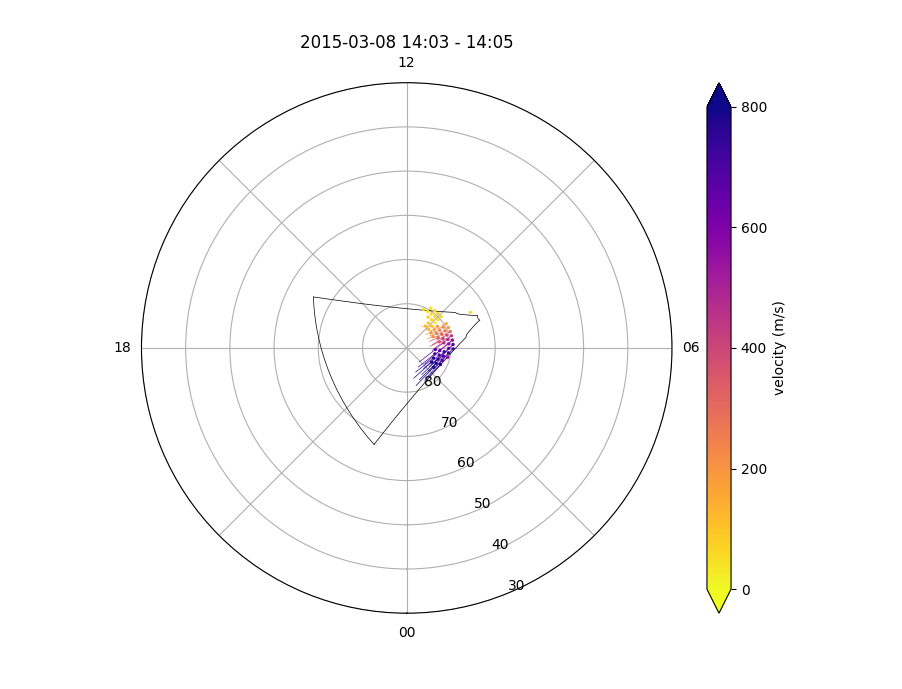
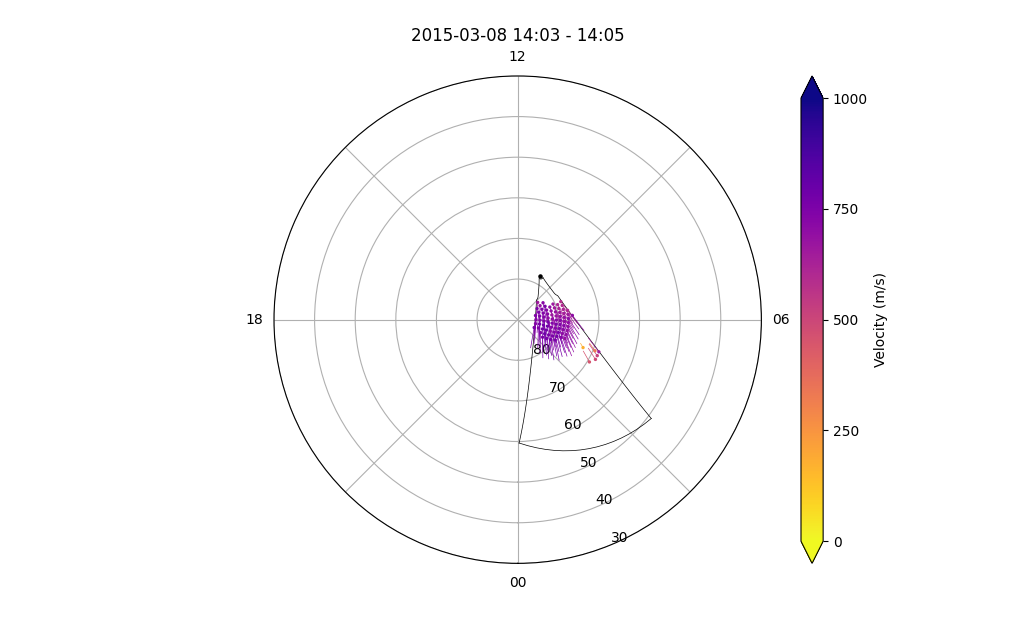
updated code exampless and images

diff --git a/docs/user/grid.md b/docs/user/grid.md
@@ -104,7 +104,11 @@ stime = dt.datetime(2015, 3, 8, 14, 2)
 grid_file = "20150308.n.grd"
 grid_data = pydarn.SuperDARNRead(grid_file).read_grid()
 
-pydarn.Grid.plot_grid(grid_data, start_time=stime, colorbar_label='velocity (m/s)', zmax=800)
+pydarn.Grid.plot_grid(grid_data, start_time=stime,
+                      colorbar_label='Velocity (m/s)',
+                      radar_label=True, fov_color='blue',
+                      fov_fill_color='grey')
+
 plt.show()
 ```
 ![](../imgs/grid_2.png)
